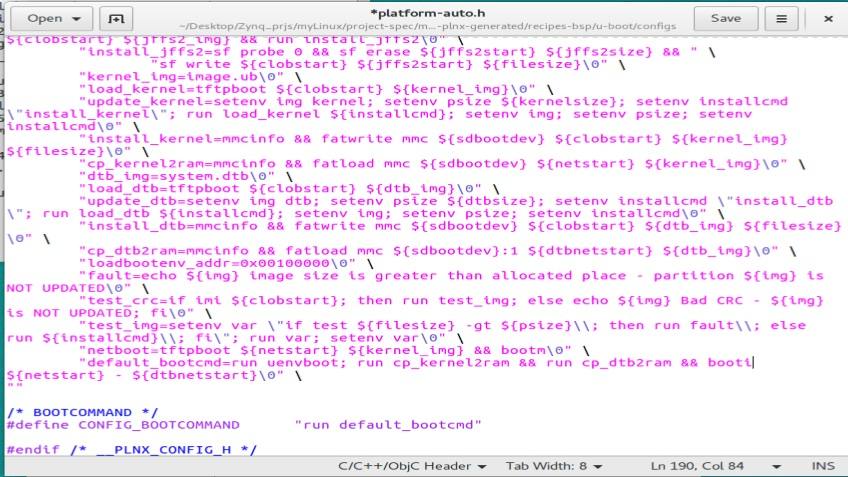
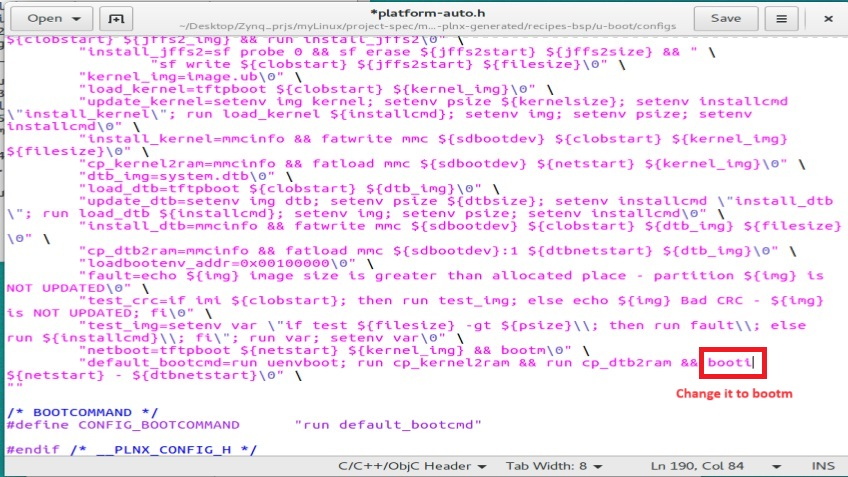
How to create a Linux version for ZYNQ

Changed region(s): [[0.7972, 0.7044, 0.9505, 0.8512], [0.1226, 0.8512, 0.1533, 0.8805], [0.0613, 0.8512, 0.092, 0.8805]]

diff --git a/booti.md b/booti.md
@@ -1,0 +1,17 @@
+# Fixing Booti Error
+
+There is a header file called **platform-auto.h** located in your project directory under the path **project-spec/meta-plnx-generated/recipes-bsp/u-boot/configs**. After finding it, please open it and scroll to the end of the file until you find the **booti** command, which is one of the Zynq **shell commands**. Replace it with the **bootm** command, and then try to build the Linux image again using the commands below.
+
+![directory](https://github.com/Saeed1362/ZYNQ-Linux/blob/main/images/Linux_set11.jpg)
+
+![platform-auto](https://github.com/Saeed1362/ZYNQ-Linux/blob/main/images/Linux_setA4.jpg)
+```
+petalinux-build
+```
+
+When the Linux creation got completed, you need to run the below command to generate **Boot.bin**
+```
+petalinux-package --boot --fsbl <FSBL image> --fpga <FPGA bitstream> --uboot
+```
+
+The issue should be fixed now!
